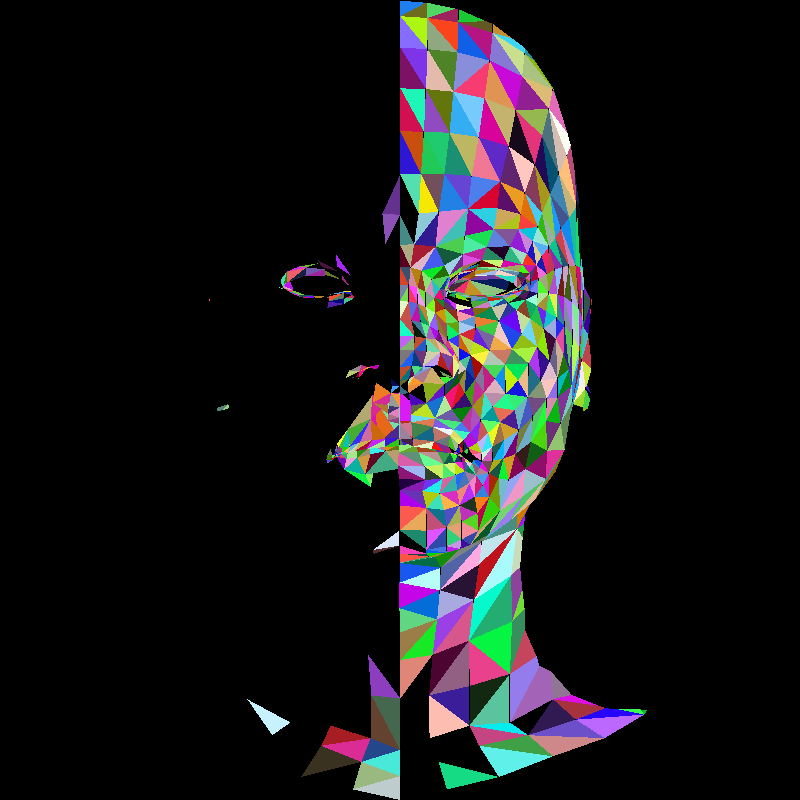
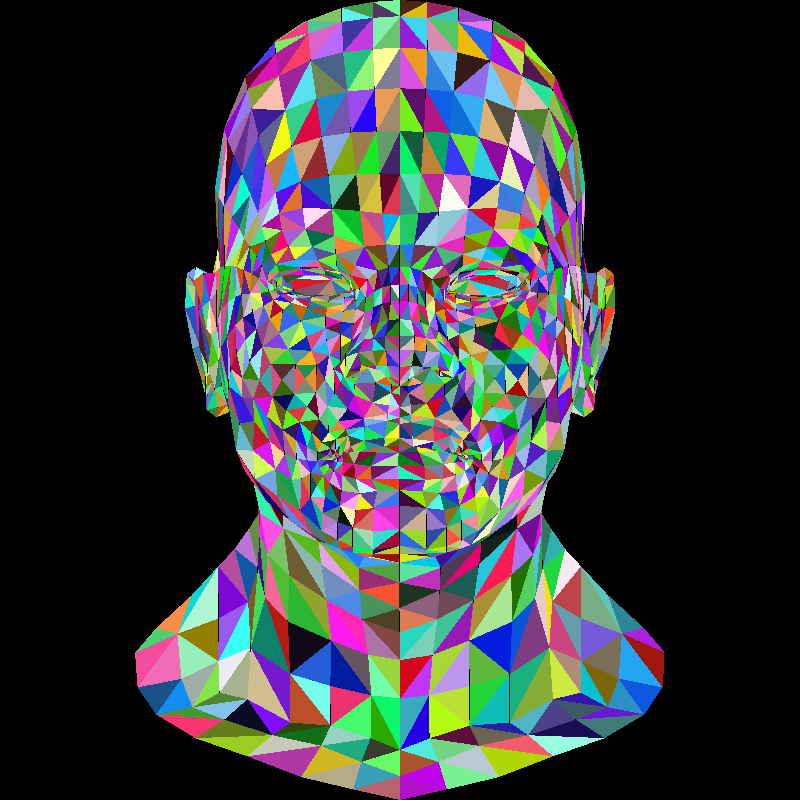
fixing overflow in Z-buffer

diff --git a/src/utils/Drawer.java b/src/utils/Drawer.java
@@ -15,6 +15,7 @@ import java.util.Random;
 public class Drawer {
     private static final String OUTPUT_FILENAME = "/home/egor/IdeaProjects/Com_grap_lab_1/src/input_output_files/african_head_";
     private static final long SEED = 5;
+    private static final double MIN_VALUE = -1e18;
 
 
     public static void draw(Model model) throws IOException {
@@ -169,7 +170,7 @@ public class Drawer {
         TgaImage image = new TgaImage("Barycentric");
         double[][] bufferZ = new double[image.getWidth()][image.getHeight()];
         for (int i = 0; i < bufferZ.length; i++) {
-            Arrays.fill(bufferZ[i], Double.MIN_VALUE);
+            Arrays.fill(bufferZ[i], MIN_VALUE);
         }
         for (Face face : model.getFaces()) {
             PointDouble p0 = model.getV(face.getVidx(0));

diff --git a/src/Main.java b/src/Main.java
@@ -14,7 +14,7 @@ public class Main {
         ObjectReader reader = new ObjectReader(FILENAME);
         Model model = reader.readModel();
         //Drawer.draw(model);
-        PointDouble camera = new PointDouble(800, 0, 0);
+        PointDouble camera = new PointDouble(0, 0, 1);
         Drawer.drawWithBarycentric(model, camera);
     }
 }
